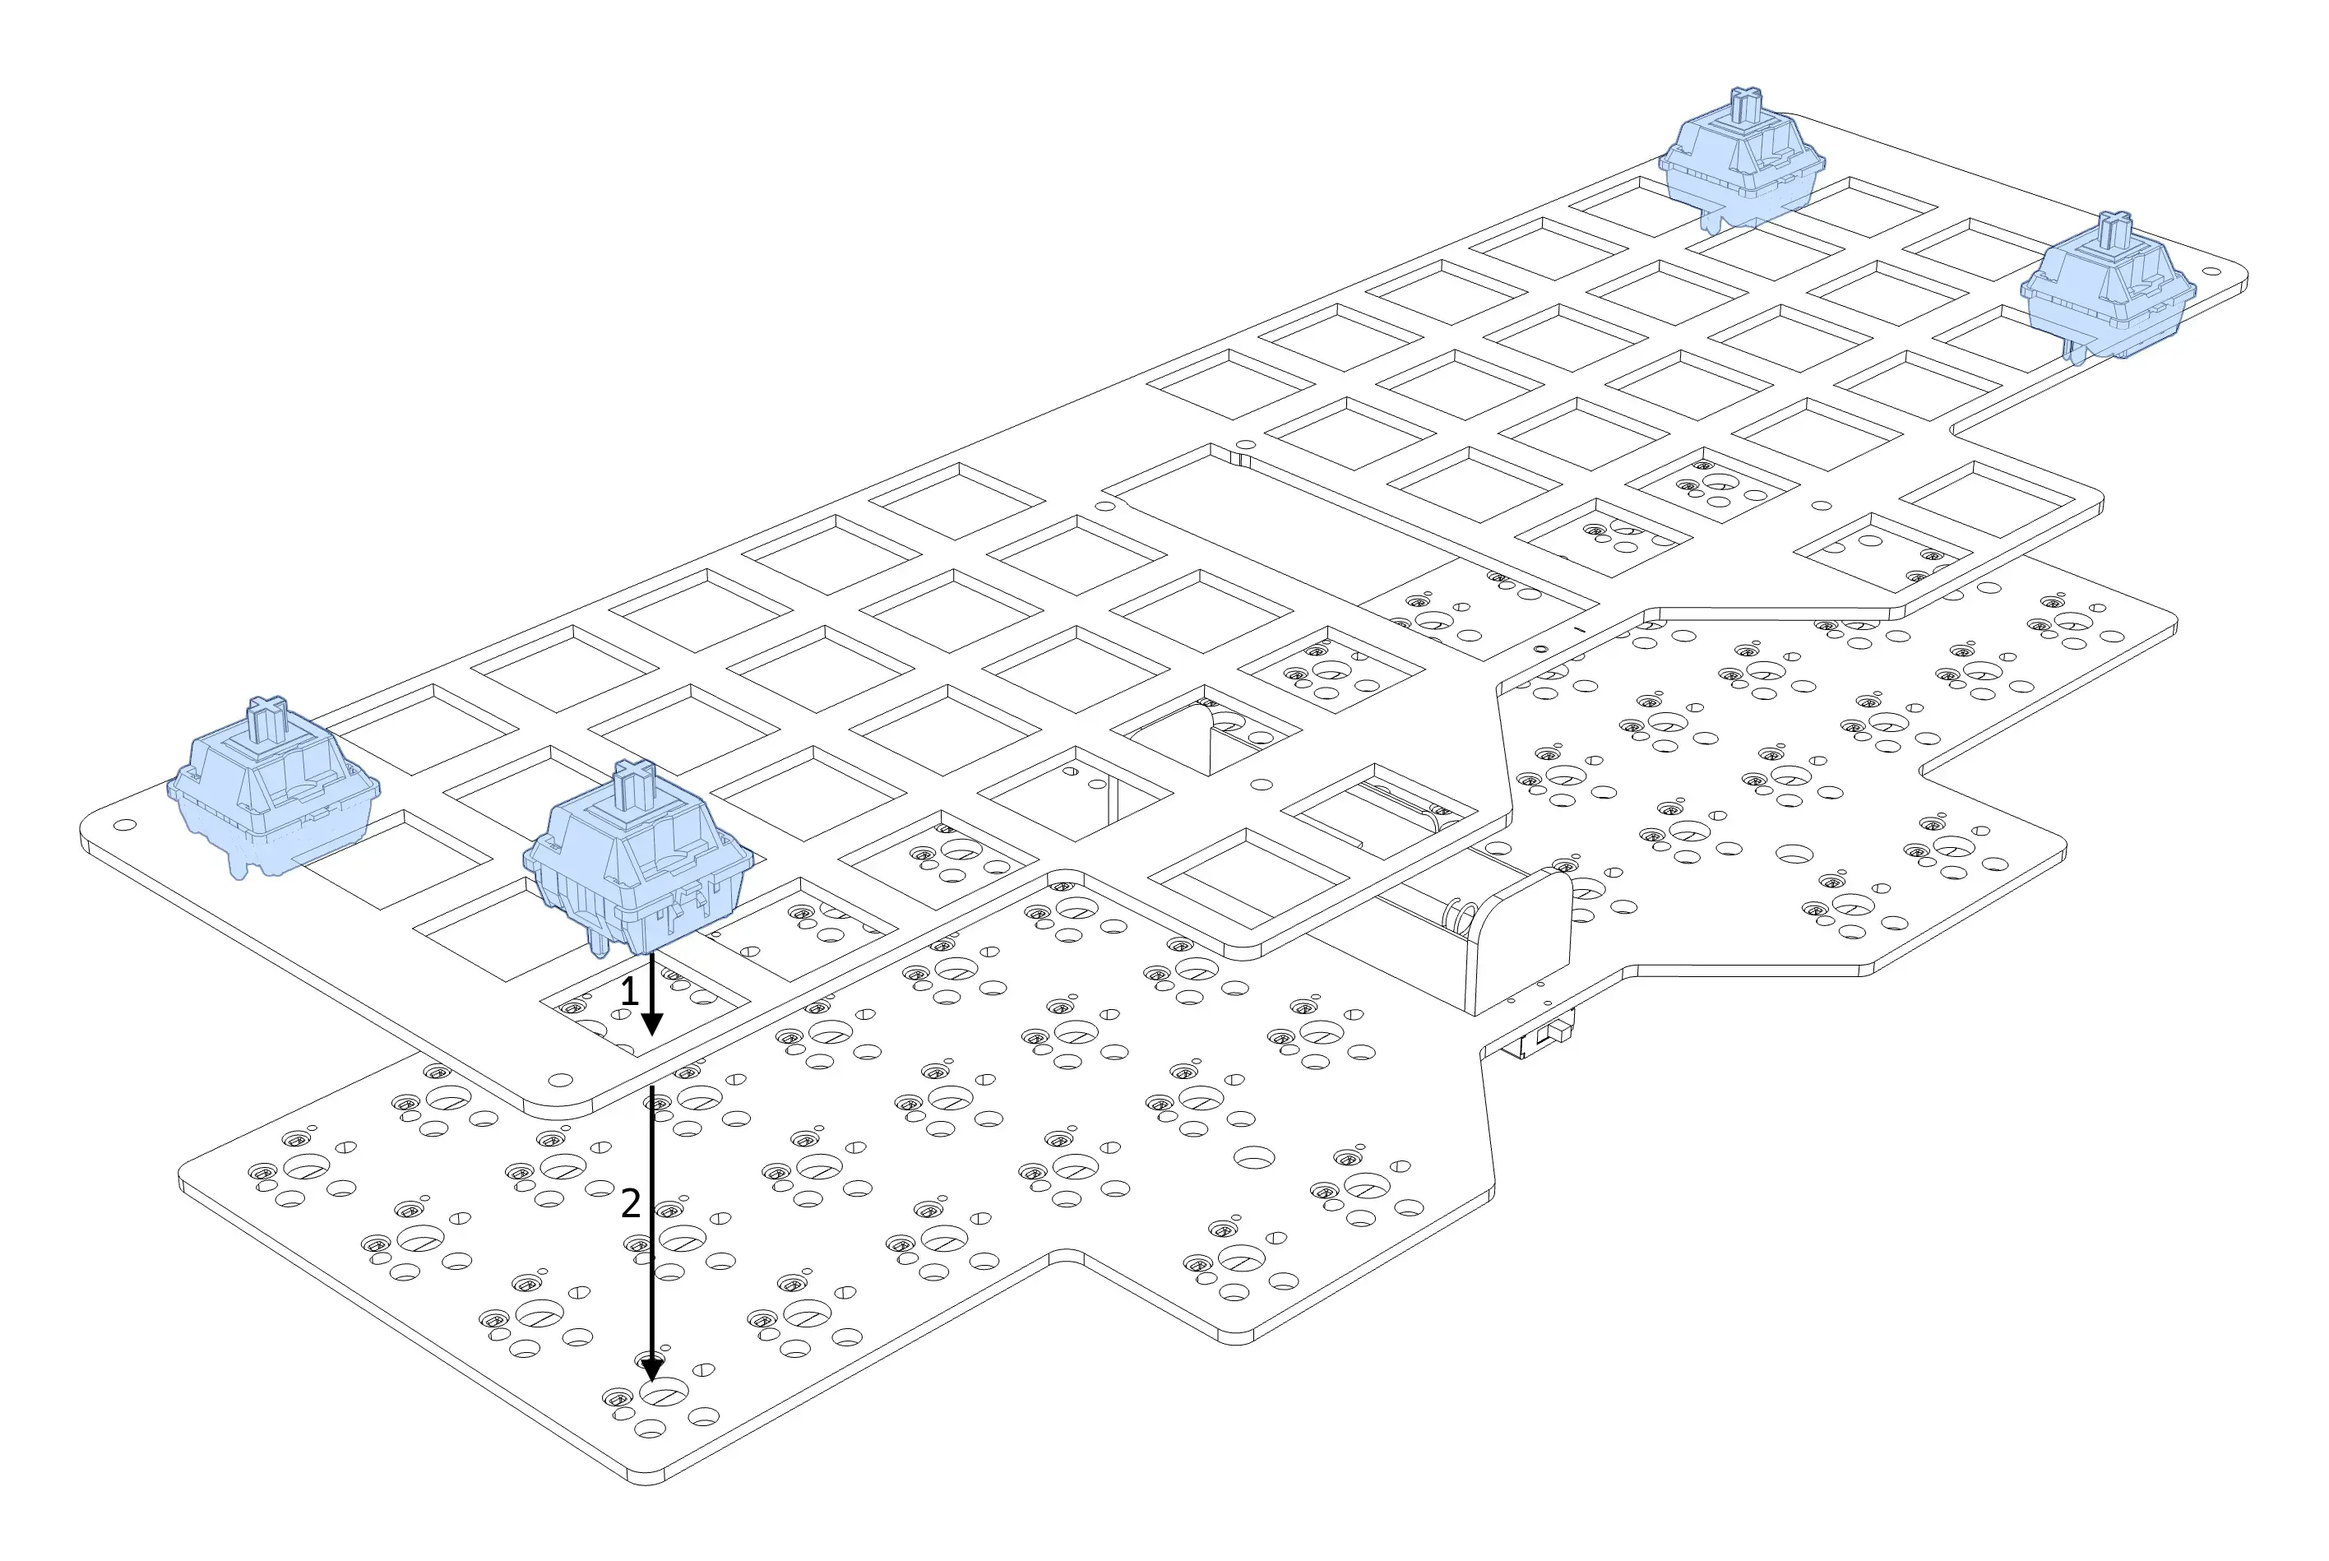
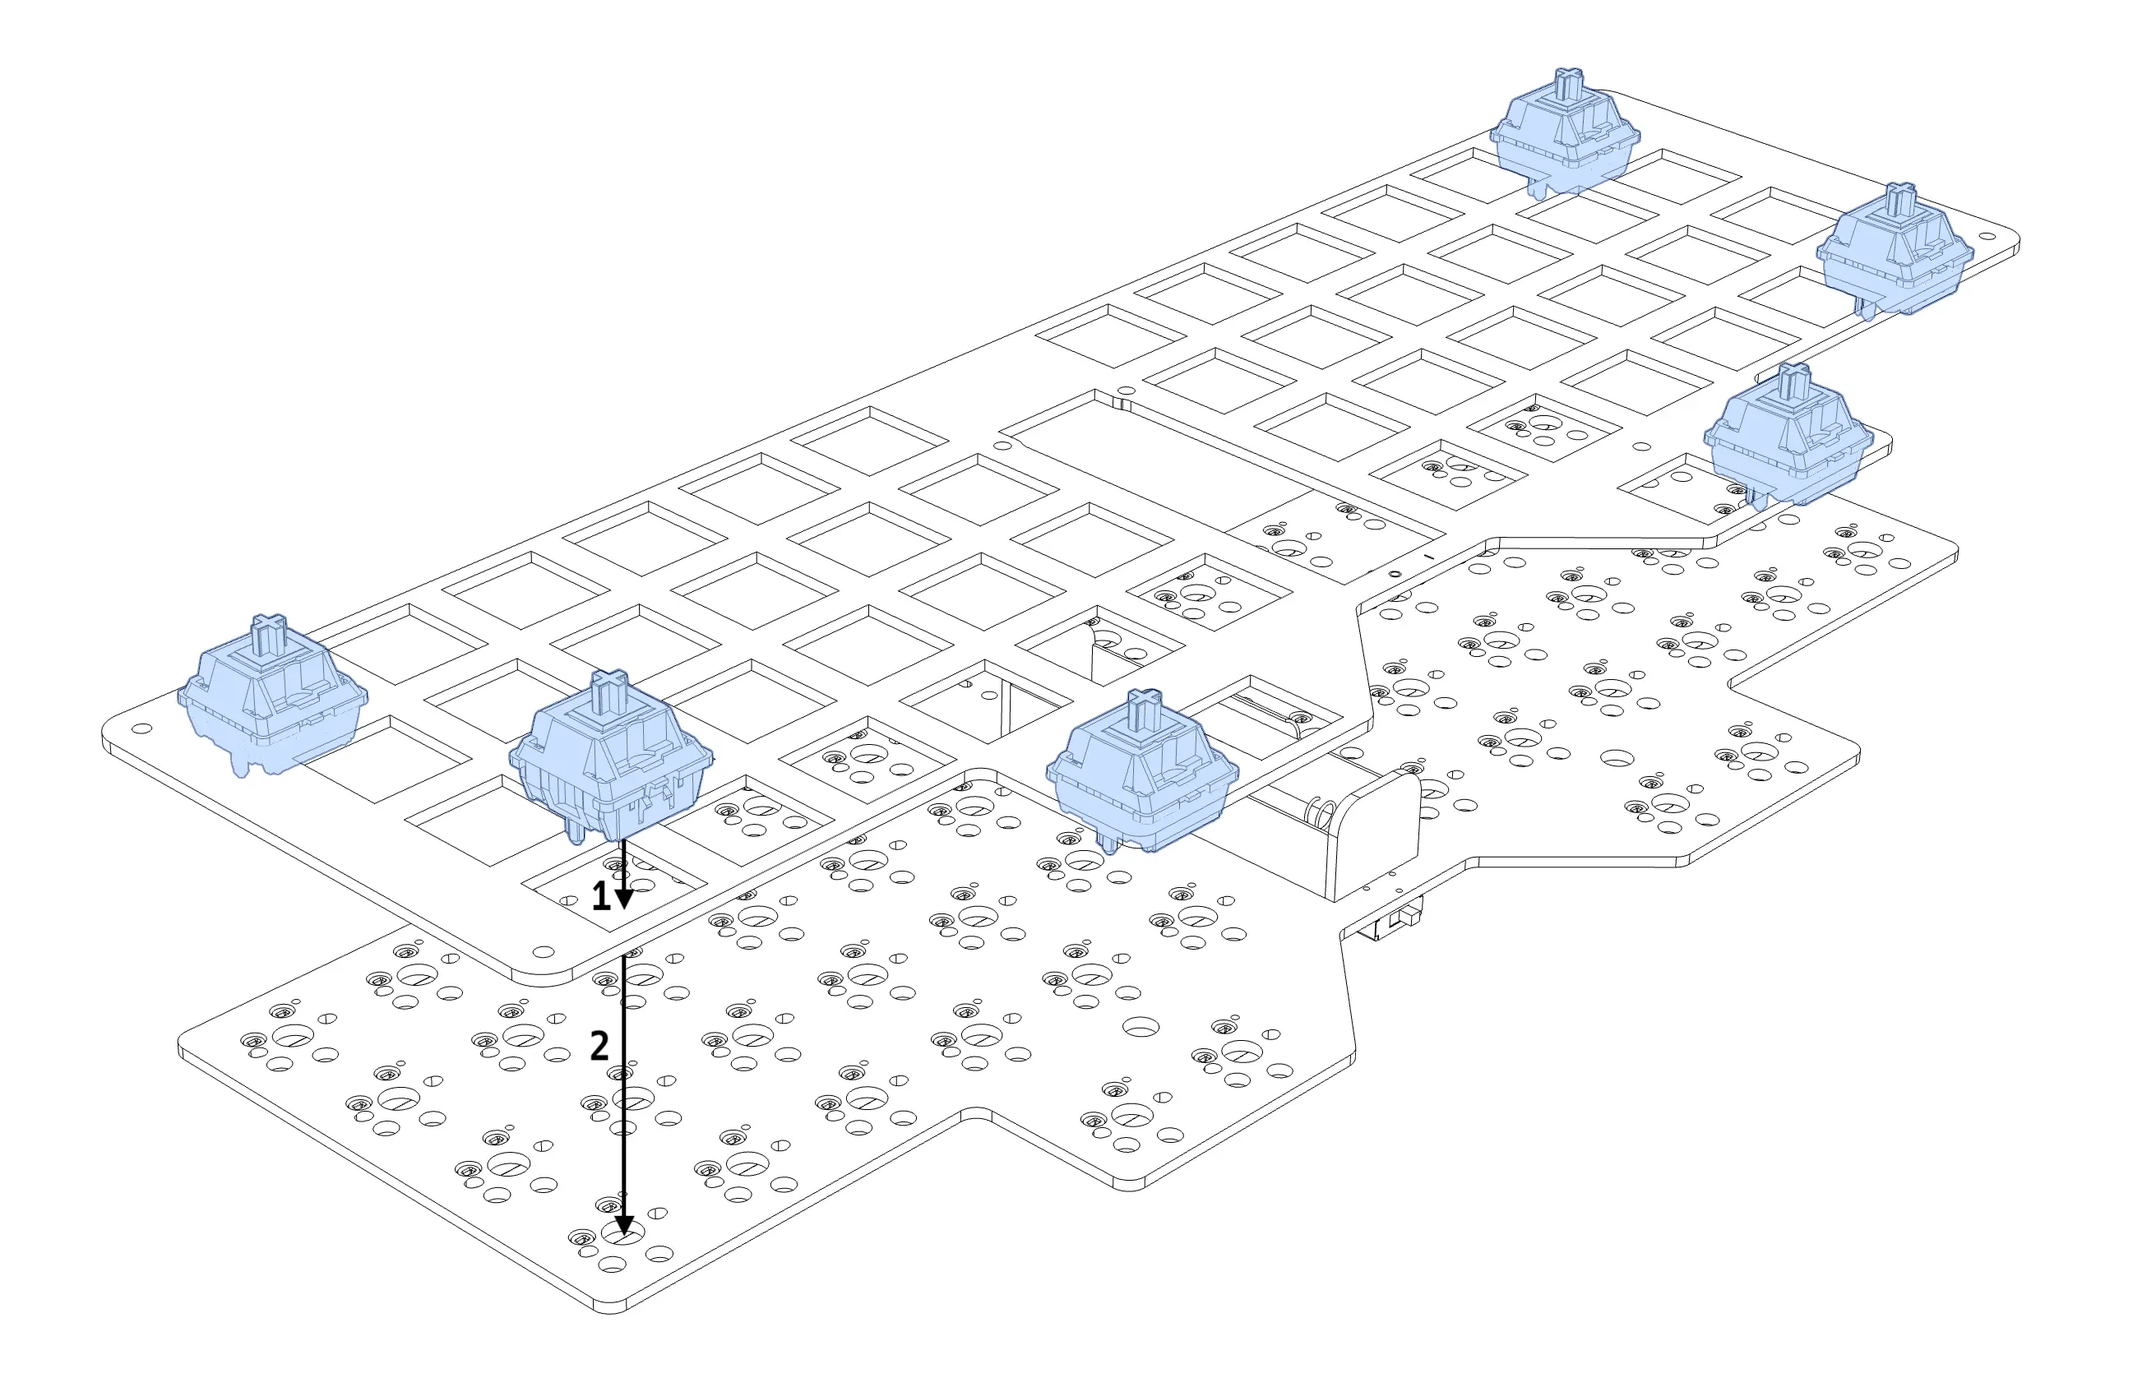
update vespa build guide

diff --git a/keyboards/Vespa/README.md b/keyboards/Vespa/README.md
@@ -4,18 +4,21 @@
 
 本製品はDIYキットです．十分注意して作業を行うようにしてください．
 
+細かい部品が含まれているため，誤飲等に注意してください．
+
 また，本製品の使用によって発生するいかなる損失についても，使用者の自己責任とします。
 
 ## 内容物と別途必要なもの
 
 | 内容物 | 個数 |
 |------|------|
-| M2 5mmネジ | 16 |
-| M2 8mmスペーサー | 8 |
 | メイン基板 | 1 |
 | ボトムプレート | 1 |
 | トッププレート | 1 |
-| ゴム足 | 5 |
+| M2 5mmネジ | 16 |
+| M2 8mmスペーサー | 8 |
+| ゴム足(小) | 3 |
+| ゴム足(大) | 2 |
 | キースイッチ(HMX Xinhai) | 52 |
 | キーキャップ(DSA) | 52 |
 
@@ -26,23 +29,29 @@ M2ネジを留めるための精密ドライバーが工具として必要です
 
 ### トッププレートを取り付ける
 
-トッププレートの四隅にキースイッチをはめ込みます．
+トッププレートの６つの隅の穴にキースイッチをはめ込みます．
 キースイッチを上から見たときに，四角い穴が下向きになるように取り付けてください．
 また，スイッチの端子が曲がっていないことを確認してください．
 端子が曲がっていた場合，ペンチや指等でまっすぐに直してください．
 
-![四隅にスイッチをはめる図](../assets/vespa/switch_plate.webp)
+![6つの隅にスイッチをはめる図](../assets/vespa/switch_plate.webp)
 
-四隅にキースイッチを取り付けたら，トッププレートをメイン基板に重ね，スイッチの端子をソケットにはめ込みます．
+6つの隅部分にキースイッチを取り付けたら，トッププレートをメイン基板に重ね，スイッチの端子をソケットにはめ込みます．
 キースイッチの端子が基板の穴に正しく挿入されていることを確認してください．
 
 ### 残りのスイッチを取り付ける
 
-トッププレートとメイン基板が固定されたら，残りのキースイッチを順番に取り付けていきます．
+トッププレートとメイン基板が固定されたら，残りのキースイッチを端の方から順に取り付けていきます．
 このときも，スイッチの向きと端子が曲がっていないことを確認してください．
 
 ![スイッチを取り付け後，横から見た図](../assets/vespa/switch_side.webp)
 *スイッチを取り付け後，横から見た図*
+
+すべてのスイッチを取り付けたら，横から見て，メイン基板から浮いているスイッチがないか確認してください．
+スイッチが浮いている(ソケットに正しく挿入されていない)場合，メイン基板に付くまで押し込んでください．
+
+> [!NOTE]
+> 端の方のスイッチは浮きやすいため，特に注意して確認してください．
 
 ### 動作確認を行う
 
@@ -57,29 +66,38 @@ M2ネジを留めるための精密ドライバーが工具として必要です
 
 すべてのキースイッチが正しく動作することを確認したら，ボトムプレートをメイン基板の裏側に取り付けます．
 M2 5mmネジと8mmスペーサーを使用して，ボトムプレートの8箇所の穴にスペーサーを取り付けます．
+このとき，ネジを完全に締めず，8割程度に留めておいてください．
 
 ![ボトムプレートにスペーサーを取り付ける図](../assets/vespa/screw_bottom.webp)
 
-次に，メイン基板裏側中央部(電池ボックスの真下に当たる部分)にゴム足を一つ取り付けます．
+次に，メイン基板裏側中央部(電池ボックスの真下に当たる部分)にゴム足(小)を一つ取り付けます．
 
 ![中央部にゴム足を取り付ける図](../assets/vespa/bumpon.webp)
 
 最後に，組み立てたメイン基板をボトムプレートに重ね，トッププレートの上からM2 5mmネジで固定します．
+穴の位置が合わず，ネジがうまく締まらない場合，ボトムプレートのネジを少し緩めて調整してください．
 
 ![トッププレートを固定する図](../assets/vespa/screw_top.webp)
+
+すべてのネジを締めたら，緩めに締めていたネジをしっかりと締め直してください．
 
 ### ゴム足を取り付ける
 
 ボトムプレート底面4箇所にゴム足を取り付けます．
+このとき，手前側には小さいゴム足を，奥側には大きいゴム足を取り付けてください．
 
 ![底面にゴム足を取り付ける図](../assets/vespa/bumpon_bottom.webp)
 
-> [!TIP]
-> キーボードを傾斜させたい場合，100円ショップ等で販売されているゴムシートを使用して高さを調整すると良いでしょう．
+キーボードをより傾斜させたい場合，100円ショップ等で販売されているゴムシートを使用して奥側の高さを調整すると良いでしょう．
 
 ### キーキャップを取り付ける
 
 キーキャップをキースイッチに取り付けます．
+
+> [!NOTE]
+> キーキャップの取り付けには比較的大きな力が必要な場合があります．
+> スイッチに対して垂直に押し込むように注意してください．
+> 斜め方向の力や，ねじるような力を加えると，キーキャップやスイッチが破損する恐れがあります．
 
 以上で組み立ては完了です．
 
@@ -200,6 +218,10 @@ Vespaは最大5台のデバイスとペアリングできます．
 ### 記号が正しく入力できない
 
 「[動作確認を行う](#動作確認を行う)」を参照し，PC等でキーボードの種類・レイアウトをANSI（US・米国配列）に設定してください．
+
+### 反応しないキーがある
+
+「[残りのスイッチを取り付ける](#残りのスイッチを取り付ける)」を参照し，該当のキーが正しく取り付けられているか確認してください．
 
 ## 参考情報
 
